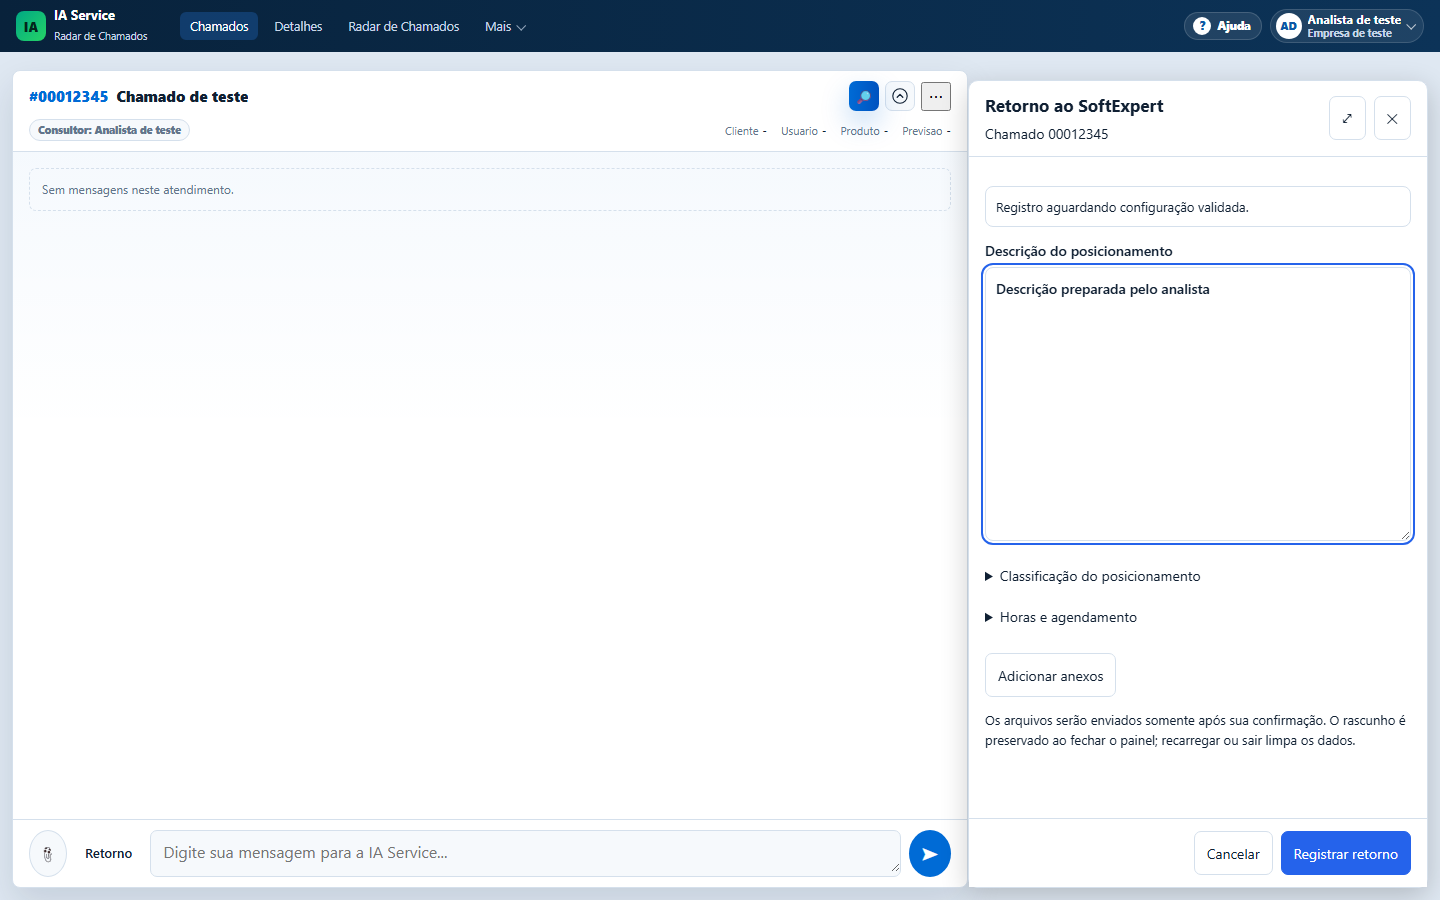
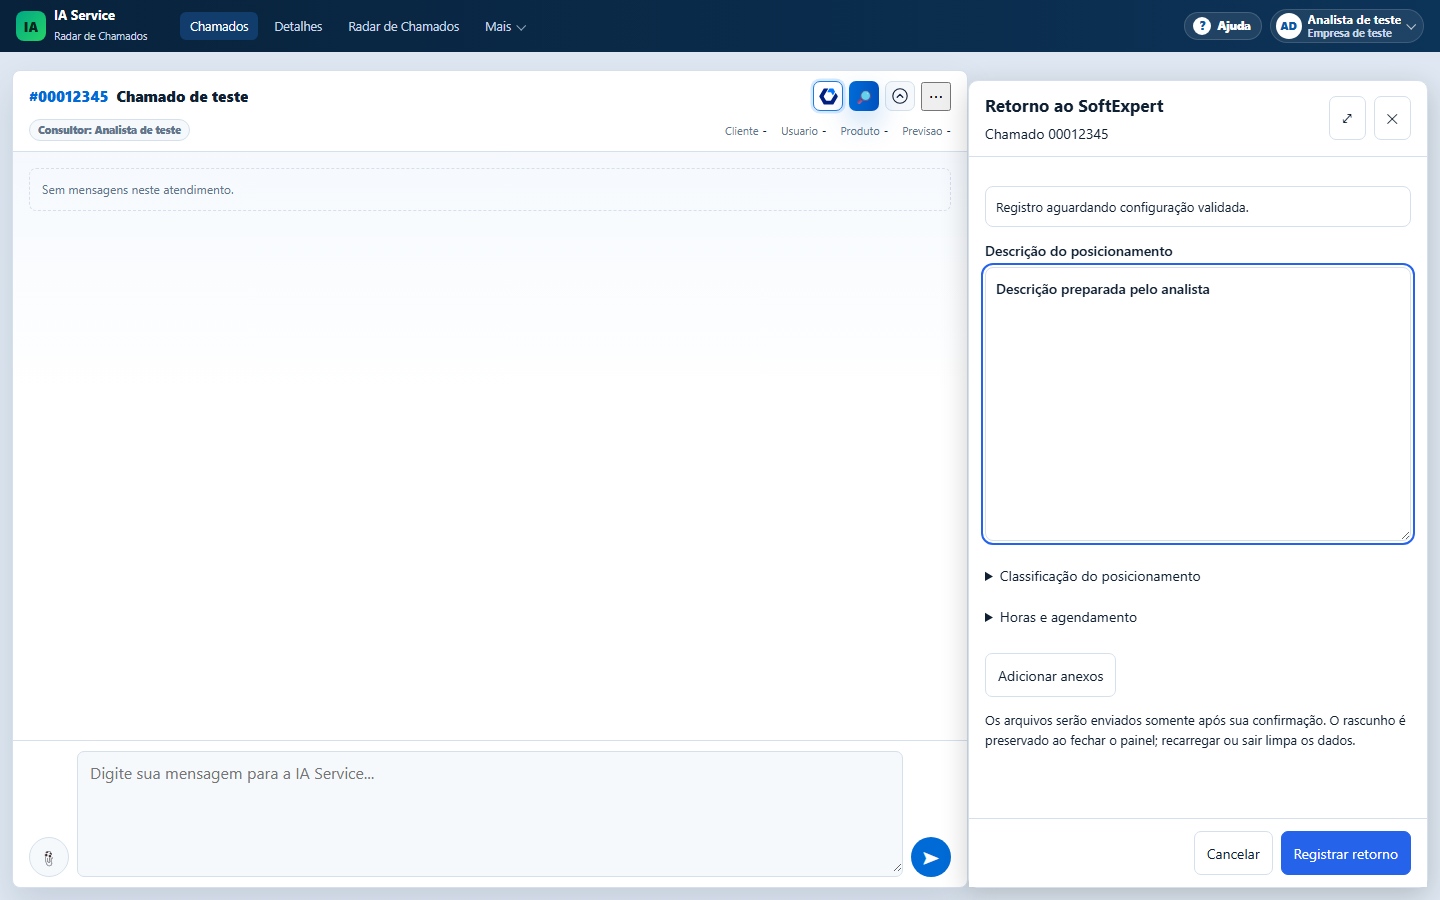
feat(ia-service): Retornar Chamado no cabecalho do J2A com simbolo SoftExpert
- Botao sai da caixa de mensagem e vai para o cabecalho, ao lado de Pesquisar,
  com o simbolo oficial SoftExpert (SVG) e dica "Retornar Chamado".
- Icone e rotulo vem no HTML (data-retorno-custom); o modulo de retorno nao
  os sobrescreve. Radar original mantem o comportamento anterior.
- Caixa de mensagem volta a 3 colunas com anexar/enviar fixos em 40px,
  alinhados embaixo (nao esticam com mensagem alta).

diff --git a/apps/IA Service/tests/retorno-softexpert-ui.test.js b/apps/IA Service/tests/retorno-softexpert-ui.test.js
@@ -41,11 +41,11 @@ after(async () => { if (browser) await browser.close(); if (server) await new Pr
 test('rascunhos, anexos e confirmação explícita no desktop', async () => {
   const page = await browserPage({ width: 1440, height: 900 });
   try {
-    await page.getByRole('button', { name: 'Retorno', exact: true }).click();
+    await page.getByRole('button', { name: 'Retorno ao SoftExpert', exact: true }).click();
     await page.locator('[name=DESCRICAO]').fill('Texto do posicionamento');
     await page.locator('[data-retorno-files]').setInputFiles({ name: 'log.txt', mimeType: 'text/plain', buffer: Buffer.from('log') });
     await page.getByRole('button', { name: 'Voltar ao chat' }).click();
-    await page.getByRole('button', { name: 'Retorno', exact: true }).click();
+    await page.getByRole('button', { name: 'Retorno ao SoftExpert', exact: true }).click();
     assert.equal(await page.locator('[name=DESCRICAO]').inputValue(), 'Texto do posicionamento');
     assert.ok((await page.locator('[data-retorno-file-list]').textContent()).includes('log.txt'));
     await page.getByRole('button', { name: 'Registrar retorno', exact: true }).click();
@@ -61,11 +61,11 @@ test('rascunhos, anexos e confirmação explícita no desktop', async () => {
     assert.equal(await page.locator('[name=DESCRICAO]').inputValue(), '');
     await page.locator('[data-retorno-close]').click();
     await page.evaluate(() => { window.currentContext = {scopeKey:'sessao-a',chamadoId:'b',numero:'0002'}; window.editor.contextChanged(); });
-    await page.getByRole('button', { name: 'Retorno', exact: true }).click();
+    await page.getByRole('button', { name: 'Retorno ao SoftExpert', exact: true }).click();
     assert.equal(await page.locator('[name=DESCRICAO]').inputValue(), '');
     await page.locator('[name=DESCRICAO]').fill('Rascunho B');
     await page.evaluate(() => { window.currentContext = {scopeKey:'sessao-a',chamadoId:'a',numero:'00012345'}; window.editor.contextChanged(); });
-    await page.getByRole('button', { name: 'Retorno', exact: true }).click();
+    await page.getByRole('button', { name: 'Retorno ao SoftExpert', exact: true }).click();
     assert.equal(await page.locator('[name=DESCRICAO]').inputValue(), '');
     const resize = page.locator('.retorno-resize');
     const oldWidth = await page.locator('.retorno-panel').evaluate((el) => el.clientWidth);
@@ -90,7 +90,7 @@ test('mobile 390 e 320 px: tela inteira, ações acessíveis e rascunho preserva
     const page = await browserPage({ width, height: 844 });
     try {
       await page.evaluate(() => { window.ready = false; });
-      await page.getByRole('button', { name: 'Retorno', exact: true }).click();
+      await page.getByRole('button', { name: 'Retorno ao SoftExpert', exact: true }).click();
       await page.locator('[name=DESCRICAO]').fill('Retorno no celular');
       const bounds = await page.locator('.retorno-panel').boundingBox();
       assert.equal(Math.round(bounds.width), width);
@@ -102,12 +102,12 @@ test('mobile 390 e 320 px: tela inteira, ações acessíveis e rascunho preserva
       assert.equal(await page.evaluate(() => window.posts), 0);
       await page.locator('[data-retorno-confirm-cancel]').click();
       await page.locator('[data-retorno-close]').click();
-      await page.getByRole('button', { name: 'Retorno', exact: true }).click();
+      await page.getByRole('button', { name: 'Retorno ao SoftExpert', exact: true }).click();
       assert.equal(await page.locator('[name=DESCRICAO]').inputValue(), 'Retorno no celular');
       assert.equal(await page.locator('.retorno-panel').evaluate((el) => el.scrollWidth <= el.clientWidth), true);
       await page.screenshot({ path: path.join(__dirname, `../../../tmp/retorno-mobile-${width}.png`) });
       await page.evaluate(() => window.editor.clear());
-      await page.getByRole('button', { name: 'Retorno', exact: true }).click();
+      await page.getByRole('button', { name: 'Retorno ao SoftExpert', exact: true }).click();
       assert.equal(await page.locator('[name=DESCRICAO]').inputValue(), '');
     } finally { await page.close(); }
   }
@@ -119,7 +119,11 @@ test('J2A real integra o painel e mantém o chat utilizável no desktop e no mob
     const page = await browser.newPage({ viewport: { width, height: 900 } });
     const errors = [];
     page.on('pageerror', (err) => errors.push(err.message));
-    await page.addInitScript(() => localStorage.setItem('svc_token_externo', 'sessao-simulada'));
+    await page.addInitScript(() => {
+      localStorage.setItem('svc_token_externo', 'sessao-simulada');
+      // Acesso HTTP por IP não disponibiliza randomUUID.
+      Object.defineProperty(crypto, 'randomUUID', { value: undefined });
+    });
     await page.route('**/api/ia-service-externo/**', async (route) => {
       const pathname = new URL(route.request().url()).pathname;
       let body = {};
@@ -137,6 +141,22 @@ test('J2A real integra o painel e mantém o chat utilizável no desktop e no mob
     try {
       await page.goto(new URL('j2a', url).href);
       await page.locator('#queue-list [data-ticket-id]').first().click();
+      await page.locator('#message-input').evaluate((el) => { el.style.height = '120px'; });
+      for (const selector of ['.attach-button', '#send-btn']) {
+        const bounds = await page.locator(selector).boundingBox();
+        assert.equal(bounds.width, 40, `${selector}: largura fixa`);
+        assert.equal(bounds.height, 40, `${selector}: altura fixa mesmo com mensagem alta`);
+      }
+      // Retornar Chamado fica no cabeçalho, ao lado de Pesquisar, com o símbolo SoftExpert.
+      assert.equal(await page.locator('#composer #retorno-btn').count(), 0);
+      assert.equal(await page.locator('.case-actions #retorno-btn').count(), 1);
+      assert.equal(await page.locator('#retorno-btn').getAttribute('aria-label'), 'Retornar Chamado');
+      assert.equal(await page.locator('#retorno-btn').getAttribute('title'), 'Retornar Chamado');
+      const retornoBox = await page.locator('#retorno-btn').boundingBox();
+      const pesquisarBox = await page.locator('#research-btn').boundingBox();
+      assert.equal(retornoBox.height, pesquisarBox.height, 'mesma altura do Pesquisar');
+      assert.ok(retornoBox.x < pesquisarBox.x, 'Retornar Chamado à esquerda do Pesquisar');
+      await page.screenshot({ path: path.join(__dirname, `../../../tmp/retorno-j2a-header-${width}.png`) });
       await page.locator('#retorno-btn').click();
       await page.locator('[name=DESCRICAO]').fill('Descrição preparada pelo analista');
       await page.screenshot({ path: path.join(__dirname, `../../../tmp/retorno-j2a-${width}.png`) });
@@ -193,7 +213,7 @@ test('sucesso parcial preserva conteúdo e chave na retomada confirmada', async 
   const page = await browserPage({ width: 390, height: 844 });
   try {
     await page.evaluate(() => { window.replies = [{status:'parcial',posicionamento:'registrado',mensagem:'Um anexo falhou.'},{status:'registrado',posicionamento:'registrado'}]; });
-    await page.getByRole('button', { name: 'Retorno', exact: true }).click();
+    await page.getByRole('button', { name: 'Retorno ao SoftExpert', exact: true }).click();
     await page.locator('[name=DESCRICAO]').fill('Conteúdo a retomar');
     await page.getByRole('button', { name: 'Registrar retorno', exact: true }).click();
     await page.locator('[data-retorno-confirm-send]').click();
@@ -212,7 +232,7 @@ test('falha de rede exige consulta; resultado confirmado não causa outro POST',
   const page = await browserPage({ width: 1440, height: 900 });
   try {
     await page.evaluate(() => { window.failNetwork = true; window.serverStatus = {status:'registrado',posicionamento:'registrado'}; });
-    await page.getByRole('button', { name: 'Retorno', exact: true }).click();
+    await page.getByRole('button', { name: 'Retorno ao SoftExpert', exact: true }).click();
     await page.locator('[name=DESCRICAO]').fill('Conteúdo enviado');
     await page.getByRole('button', { name: 'Registrar retorno', exact: true }).click();
     await page.locator('[data-retorno-confirm-send]').click();

diff --git a/apps/IA Service/frontend/j2a/assets/retorno-softexpert.js b/apps/IA Service/frontend/j2a/assets/retorno-softexpert.js
@@ -1,7 +1,24 @@
 (() => {
   'use strict';
 
+  function requestId() {
+    if (typeof crypto.randomUUID === 'function') return crypto.randomUUID();
+    const bytes = crypto.getRandomValues(new Uint8Array(16));
+    bytes[6] = (bytes[6] & 0x0f) | 0x40;
+    bytes[8] = (bytes[8] & 0x3f) | 0x80;
+    const hex = Array.from(bytes, (b) => b.toString(16).padStart(2, '0')).join('');
+    return `${hex.slice(0, 8)}-${hex.slice(8, 12)}-${hex.slice(12, 16)}-${hex.slice(16, 20)}-${hex.slice(20)}`;
+  }
+
   function mount({ button, getContext, request, onSuccess = async () => {} }) {
+    button.setAttribute('aria-expanded', 'false');
+    // data-retorno-custom: a tela ja traz rotulo e icone proprios no HTML
+    // (ex.: J2A, simbolo SoftExpert no cabecalho) -- nao sobrescrever.
+    if (!button.hasAttribute('data-retorno-custom')) {
+      button.title = 'Retorno ao SoftExpert';
+      button.setAttribute('aria-label', 'Retorno ao SoftExpert');
+      button.innerHTML = '<svg viewBox="0 0 24 24" width="22" height="22" fill="none" stroke="currentColor" stroke-width="1.8" stroke-linecap="round" stroke-linejoin="round" aria-hidden="true"><path d="M14 2H6a2 2 0 0 0-2 2v16a2 2 0 0 0 2 2h12a2 2 0 0 0 2-2V8l-6-6Z"/><path d="M14 2v6h6M8 13l-3 3 3 3M5 16h9a3 3 0 0 0 0-6"/></svg>';
+    }
     const drafts = new Map();
     let current = null;
     let draft = null;
@@ -64,7 +81,7 @@
     const confirmSend = find('[data-retorno-confirm-send]');
     const fieldNames = ['DESCRICAO', 'ASSUNTO', 'RESULTADO', 'HORAINI', 'HORAFIM', 'HORAINT', 'HORATOTALNUM', 'DTAGEND', 'HRAGEND', 'SITUACAOCHAMADO', 'TIPOPOSICIONAME', 'MOTIVOAPONTAMEN', 'AGUARDANRETORNO'];
     const keyFor = (c) => JSON.stringify([c.scopeKey, c.chamadoId]);
-    const newDraft = () => ({ fields: {}, files: [], requestId: crypto.randomUUID() });
+    const newDraft = () => ({ fields: {}, files: [], requestId: requestId() });
 
     function applyRules() {
       for (const name of fieldNames) {
@@ -103,6 +120,7 @@
       revision++;
       if (dialog.open) dialog.close();
       panel.hidden = true;
+      button.setAttribute('aria-expanded', 'false');
       document.body.classList.remove('retorno-open', 'retorno-wide');
       panel.classList.remove('retorno-expanded');
       button.focus();
@@ -113,6 +131,7 @@
       current = draft = metadata = null;
       if (dialog.open) dialog.close();
       panel.hidden = true;
+      button.setAttribute('aria-expanded', 'false');
       document.body.classList.remove('retorno-open', 'retorno-wide');
       panel.classList.remove('retorno-expanded');
       form.reset();
@@ -130,7 +149,7 @@
         remove.textContent = 'Remover';
         remove.disabled = sending || !!draft?.locked;
         remove.setAttribute('aria-label', `Remover ${file.name}`);
-        remove.addEventListener('click', () => { draft.files.splice(index, 1); draft.requestId = crypto.randomUUID(); renderFiles(); });
+        remove.addEventListener('click', () => { draft.files.splice(index, 1); draft.requestId = requestId(); renderFiles(); });
         li.append(text, remove);
         list.append(li);
       });
@@ -147,6 +166,7 @@
       for (const name of fieldNames) form.elements.namedItem(name).value = draft.fields[name] || '';
       metadata = null;
       panel.hidden = false;
+      button.setAttribute('aria-expanded', 'true');
       document.body.classList.add('retorno-open');
       find('[data-retorno-context]').textContent = `Chamado ${current.numero || ''}`;
       status.textContent = 'Verificando disponibilidade do registro…';
@@ -170,7 +190,7 @@
       button.disabled = !context?.chamadoId || context.readonly;
       if (current && keyFor(context || {}) !== keyFor(current)) close();
     }
-    form.addEventListener('input', () => { save(); if (draft && !draft.locked) draft.requestId = crypto.randomUUID(); });
+    form.addEventListener('input', () => { save(); if (draft && !draft.locked) draft.requestId = requestId(); });
     find('[data-retorno-files]').addEventListener('change', (event) => {
       if (!draft || draft.locked) return;
       const added = [...event.target.files];
@@ -182,7 +202,7 @@
         return;
       }
       draft.files = files;
-      draft.requestId = crypto.randomUUID();
+      draft.requestId = requestId();
       renderFiles();
     });
     find('[data-retorno-add-files]').addEventListener('click', () => find('[data-retorno-files]').click());

diff --git a/apps/IA Service/frontend/j2a/index.html b/apps/IA Service/frontend/j2a/index.html
@@ -226,6 +226,12 @@
                   <h1 id="case-title">Chamado</h1>
                 </div>
                 <div class="case-actions">
+                  <button id="retorno-btn" class="retorno-se-button" type="button" title="Retornar Chamado" aria-label="Retornar Chamado" data-retorno-custom>
+                    <svg viewBox="-0.4 0.6 25.8 22.8" width="19" height="17" aria-hidden="true" focusable="false">
+                      <path d="M11.1326 6.24455H15.776C15.8493 6.24455 15.9146 6.28542 15.9476 6.34231L18.2689 10.3502C18.3422 10.48 18.5388 10.48 18.6121 10.3502L21.3749 5.58672C21.408 5.52984 21.408 5.44891 21.3749 5.39202L18.9392 1.18863C18.9062 1.12373 18.8409 1.09088 18.7676 1.09088H13.8954C13.8221 1.09088 13.7569 1.13175 13.7238 1.18863L10.961 5.9521C10.8877 6.0819 10.9771 6.25257 11.1326 6.25257V6.24455Z" fill="#0075FF"/>
+                      <path d="M22.4167 7.11472L24.9822 11.3638C25.1779 11.6971 25.0861 12.2035 24.8895 12.5368L19.1923 22.365C18.9965 22.6983 18.6363 22.9099 18.252 22.9099H6.86556C6.47317 22.9099 6.11382 22.7064 5.92528 22.365L0.147468 12.4559C-0.0483219 12.1226 -0.0483219 11.7083 0.147468 11.375L5.91723 1.63574C6.11302 1.30241 6.47317 1.09088 6.8575 1.09088H11.8932C12.0318 1.09088 12.1221 1.24552 12.0568 1.36731L6.20406 11.4551C6.00827 11.7884 6.00827 12.2027 6.20406 12.536L8.98299 17.1961C9.17878 17.5294 9.46561 17.7466 9.84994 17.7466H15.2612C15.6535 17.7466 15.8953 17.5911 16.083 17.2498L22.0985 7.11392C22.1718 6.99213 22.3434 6.99213 22.4176 7.11392L22.4167 7.11472Z" fill="#002080"/>
+                    </svg>
+                  </button>
                   <button id="research-btn" class="primary-button icon-only" title="Pesquisar Soluções"><span class="loader" aria-hidden="true"></span><span class="icon-label" aria-hidden="true">🔎</span></button>
                   <button id="toggle-header-btn" class="icon-button ghost-icon chevron-toggle" title="Mostrar/ocultar detalhes do chamado">
                     <svg viewBox="0 0 20 20" width="16" height="16" fill="none" aria-hidden="true">
@@ -259,7 +265,6 @@
               <form id="composer" class="composer">
                 <label class="attach-button" for="file-input" title="Anexar arquivo">📎</label>
                 <input id="file-input" type="file" multiple hidden>
-                <button id="retorno-btn" class="retorno-button" type="button">Retorno</button>
                 <div class="composer-main">
                   <div id="pending-files" class="pending-files"></div>
                   <textarea id="message-input" rows="1" placeholder="Digite sua mensagem para a IA Service..."></textarea>

diff --git a/apps/IA Service/frontend/j2a/assets/radar.css b/apps/IA Service/frontend/j2a/assets/radar.css
@@ -650,6 +650,26 @@ button.loading .loader { display: block; }
 }
 .primary-button.icon-only.loading .loader { display: block; }
 .primary-button.icon-only.loading .icon-label { visibility: hidden; }
+/* Retornar Chamado (SoftExpert): mesmo tamanho dos botoes do cabecalho; fundo branco nos
+   dois temas para manter as cores oficiais do simbolo legiveis. */
+.retorno-se-button {
+  box-sizing: border-box;
+  flex: none;
+  width: 30px;
+  height: 30px;
+  padding: 0;
+  display: grid;
+  place-items: center;
+  border: 1px solid var(--line);
+  border-radius: 7px;
+  background: #fff;
+  cursor: pointer;
+  transition: border-color .12s ease, box-shadow .12s ease;
+}
+.retorno-se-button:not(:disabled):hover { border-color: var(--brand); box-shadow: 0 0 0 3px rgba(0, 117, 255, .14); }
+.retorno-se-button:focus-visible { outline: 2px solid var(--brand); outline-offset: 2px; }
+.retorno-se-button[aria-expanded="true"] { border-color: var(--brand); box-shadow: 0 0 0 3px rgba(0, 117, 255, .2); }
+.retorno-se-button:disabled { opacity: .45; cursor: not-allowed; }
 
 .queue-panel { display: grid; grid-template-rows: auto auto 1fr; }
 .queue-tools {
@@ -1059,12 +1079,16 @@ button.loading .loader { display: block; }
 .message-attachment:hover { text-decoration: underline; }
 .composer {
   display: grid;
-  grid-template-columns: 38px 1fr 42px;
+  grid-template-columns: 40px minmax(0, 1fr) 40px;
+  align-items: end;
   gap: 8px;
   padding: 10px 16px;
   border-top: 1px solid var(--line);
 }
+/* Anexar e Enviar: circulos fixos, nunca esticam com a altura da mensagem. */
+.composer > .attach-button, .composer > #send-btn { box-sizing: border-box; width: 40px; height: 40px; padding: 0; }
 .attach-button {
+  cursor: pointer;
   display: grid;
   place-items: center;
   border: 1px solid var(--line);

diff --git a/apps/IA Service/frontend/j2a/assets/retorno-softexpert.css b/apps/IA Service/frontend/j2a/assets/retorno-softexpert.css
@@ -1,6 +1,6 @@
-.retorno-button { flex: 0 0 auto; min-height: 44px; padding: 6px 10px; border: 1px solid var(--line, var(--wa-border, #64748b)); border-radius: 8px; background: var(--panel, var(--wa-panel, #fff)); color: var(--text, var(--wa-text, #0f172a)); cursor: pointer; font: inherit; }
-#composer.composer:has(> .retorno-button) { grid-template-columns: 38px auto minmax(0, 1fr) 42px; }
-#composer.composer > .retorno-button { width: auto; height: 44px; border-radius: 8px; background: var(--panel, #fff); color: var(--text, #0f172a); font-size: 13px; font-weight: 600; }
+.retorno-button { box-sizing: border-box; flex: 0 0 40px; width: 40px; height: 40px; padding: 0; display: grid; place-items: center; border: 1px solid var(--line, var(--wa-border, #64748b)); border-radius: 8px; background: var(--panel, var(--wa-panel, #fff)); color: var(--text, var(--wa-text, #0f172a)); cursor: pointer; font: inherit; }
+.retorno-button:focus-visible { outline: 2px solid #2563eb; outline-offset: 2px; }
+.retorno-button:disabled { opacity: .55; cursor: not-allowed; }
 .retorno-panel { --rt-bg: var(--panel, var(--wa-panel, #fff)); --rt-text: var(--text, var(--wa-text, #0f172a)); --rt-line: var(--line, var(--wa-border, #cbd5e1)); position: fixed; z-index: 200; inset: 80px 12px 12px auto; width: min(var(--retorno-width, 460px), calc(100vw - 440px)); min-width: 360px; display: flex; flex-direction: column; color: var(--rt-text); background: var(--rt-bg); border: 1px solid var(--rt-line); border-radius: 10px; box-shadow: 0 8px 28px #0003; font: 14px/1.5 'Segoe UI', sans-serif; }
 .retorno-panel, .retorno-panel *, .retorno-confirm, .retorno-confirm * { box-sizing: border-box; }
 .retorno-panel[hidden] { display: none; }
